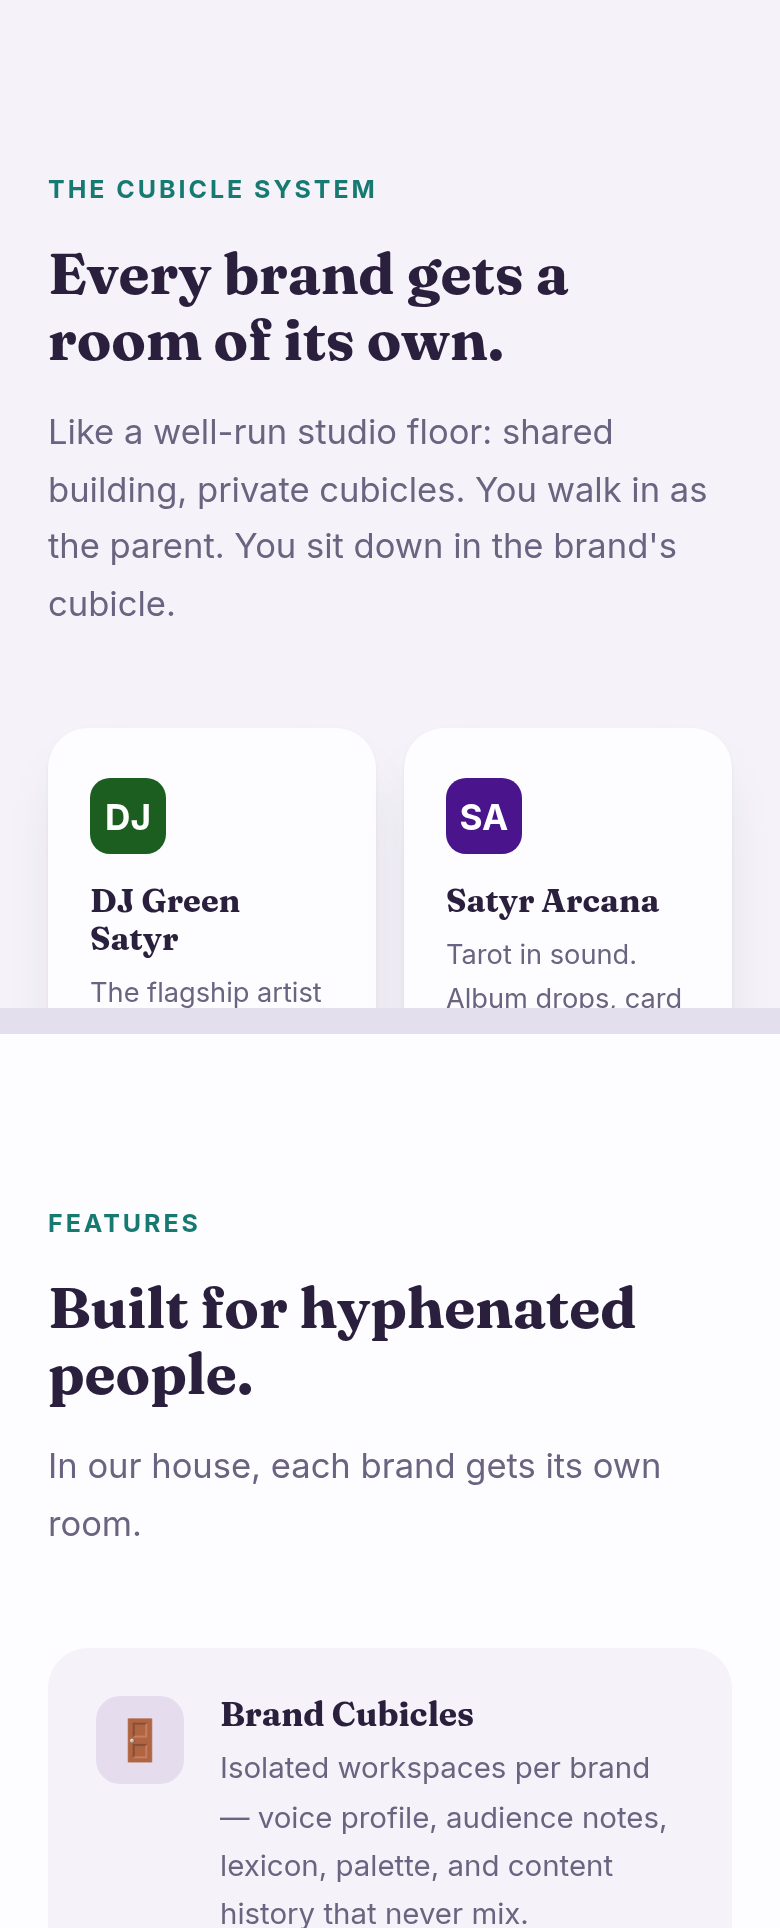
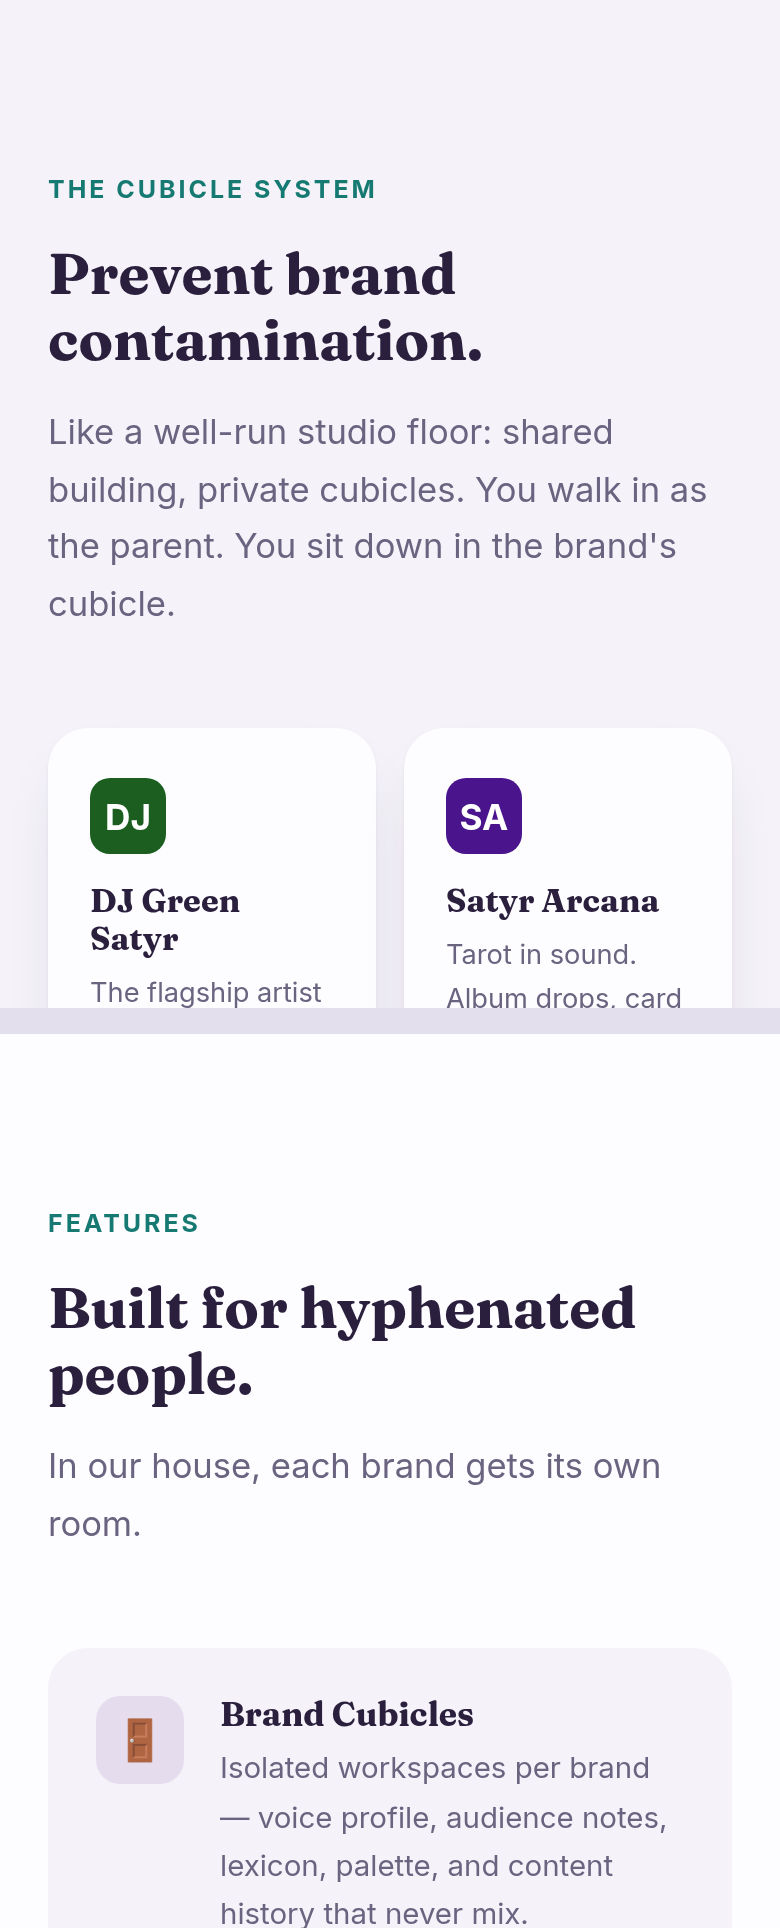
Landing copy: Cubicle System heading -> 'Prevent brand contamination.'

Changed region(s): [[0.0615, 0.1245, 0.7385, 0.1867]]

diff --git a/index.html b/index.html
@@ -301,7 +301,7 @@
 <section id="how">
   <div class="wrap">
     <span class="kicker">The Cubicle System</span>
-    <h2>Every brand gets a room of its own.</h2>
+    <h2>Prevent brand contamination.</h2>
     <p class="lede">Like a well-run studio floor: shared building, private cubicles. You walk in as the parent. You sit down in the brand's cubicle.</p>
     <div class="cubicle-row">
       <div class="cubicle">
